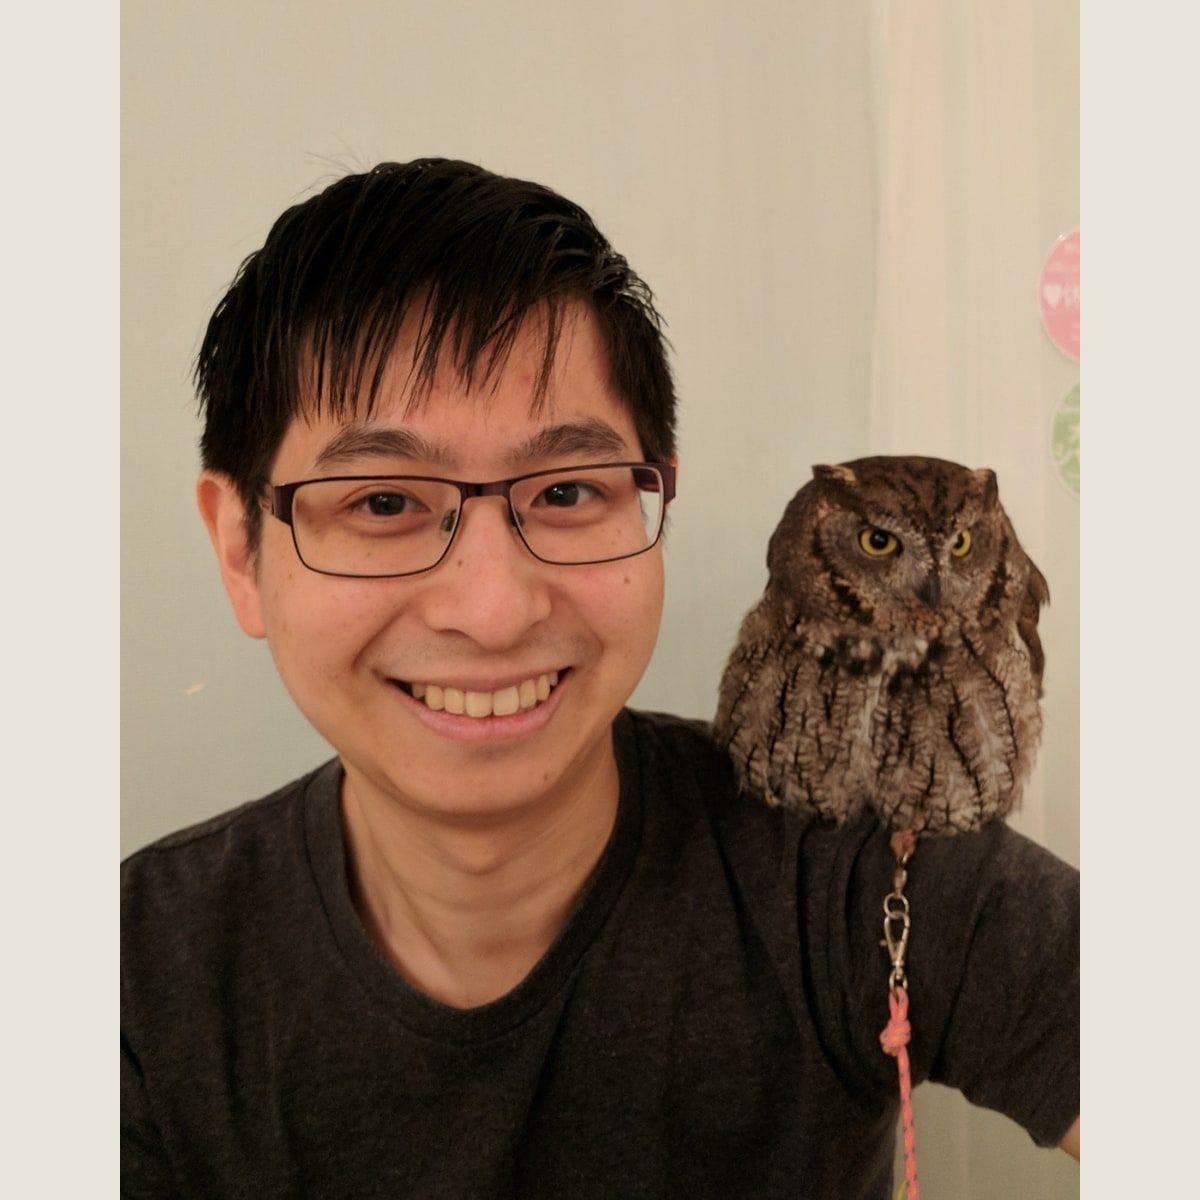
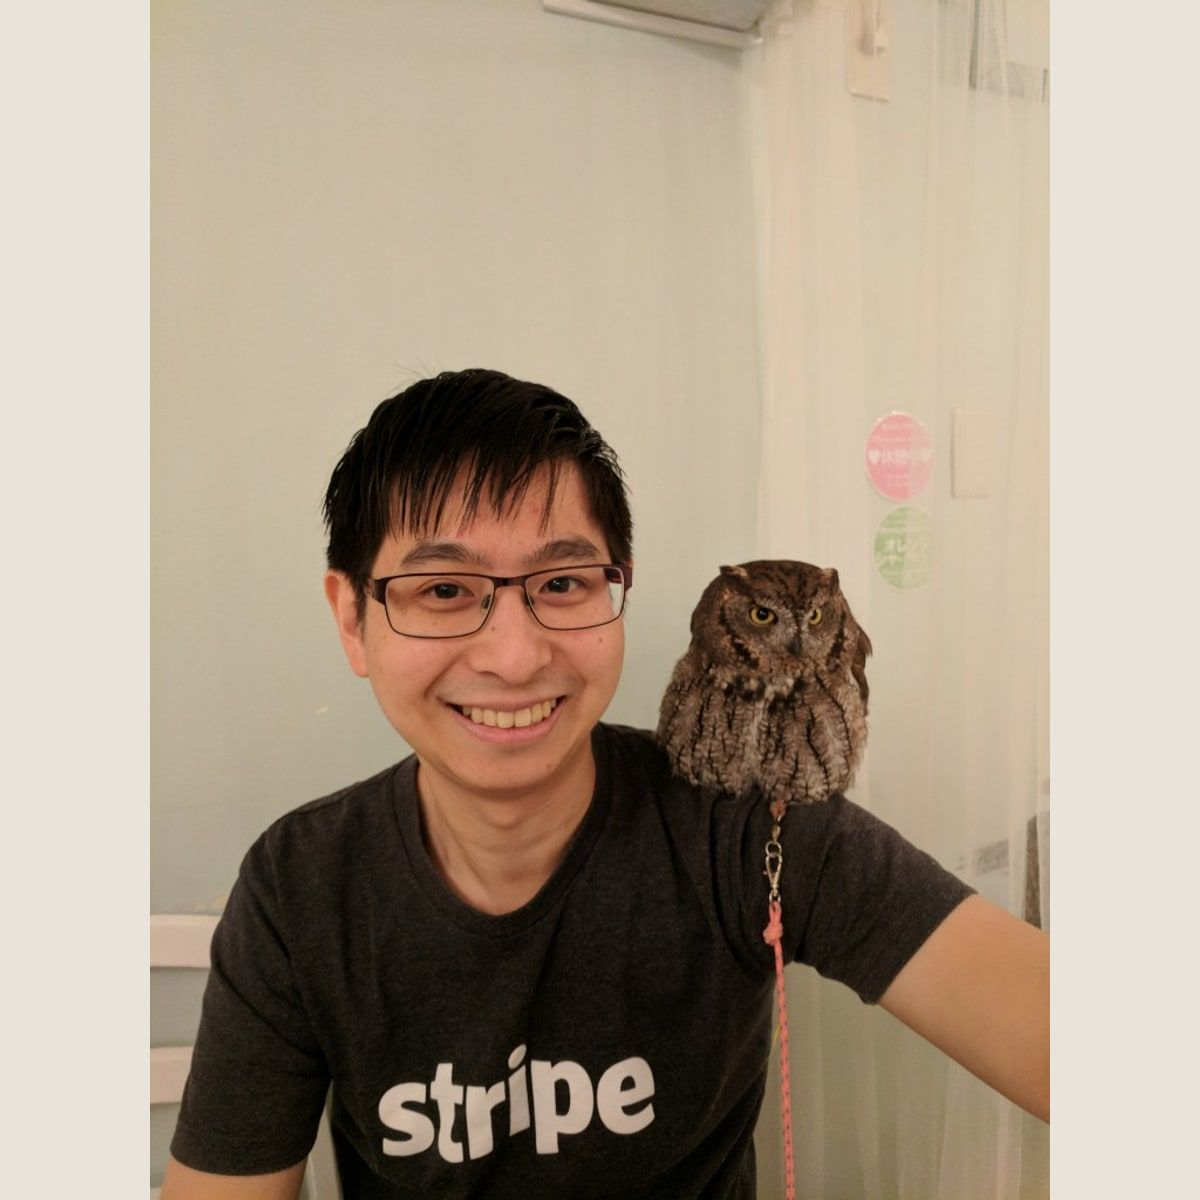
Show full connect portrait width inside the circular frame.
Use object-fit contain with letterbox background, regenerate square assets from the wider original source photo.

diff --git a/app/styles/connect.css b/app/styles/connect.css
@@ -24,7 +24,8 @@
   aspect-ratio: 1;
   border-radius: 50%;
   border: 3px solid #e8e4dc;
-  object-fit: cover;
+  background-color: #e8e4dc;
+  object-fit: contain;
   object-position: center;
 }
 
